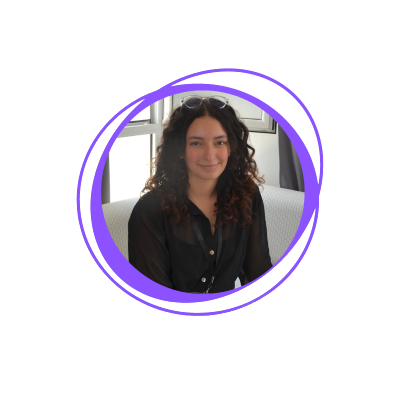
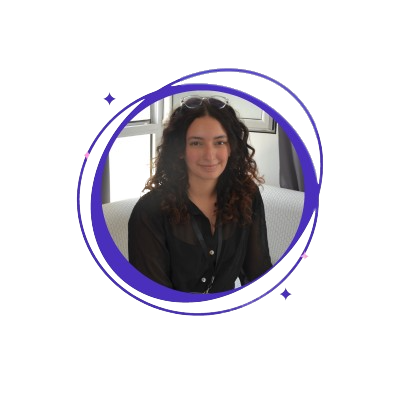
hero section

diff --git a/src/components/Hero.jsx b/src/components/Hero.jsx
@@ -12,7 +12,7 @@ const Hero = () => {
   const [text, setText] = useState('');
   const [index, setIndex] = useState(1);
   const [delta, setDelta] = useState(300 - Math.random()*100);
-  const period = 500;
+  const period = 100;
 
   useEffect(() => {
     let ticker = setInterval(() => {
@@ -52,17 +52,25 @@ const Hero = () => {
     <section className='banner' id='home'>
       <Container>
         <Row className='align-items-center'>
-          <Col xs={12} md={6} xl={7}>
+          <Col  md={6} className='text'>
           <TrackVisibility>
               {({ isVisible }) =>
               <div className={isVisible ? "animate__animated animate__fadeIn" : ""}>
                 <span className='tagline'>Welcome to my Portfolio</span>
-                <h1>{`Hi there 👋! I'm Aya HAMZA`} <span className="txt-rotate" dataPeriod="1000" data-rotate='[ "Web Developer", "Web Designer", "UI/UX Designer" ]'><span className="wrap">{text}</span></span></h1>
-                  <p>Lorem Ipsum is simply dummy text of the printing and typesetting industry. Lorem Ipsum has been the industry's standard dummy text ever since the 1500s, when an unknown printer took a galley of type and scrambled it to make a type specimen book.</p>
-                  <button onClick={() => console.log('connect')}>Let’s Connect <ArrowRightCircle size={25} /></button>
+                <h1>Hi there 👋! I'm Aya HAMZA <br /><span className="txt-rotate" dataPeriod="1000" data-rotate='[ "Web Developer", "Web Designer", "UI/UX Designer" ]'><span className="wrap">{text}</span></span></h1>
+                  <p>I'm a dynamic software engineer and a creative UI/UX designer. My passion is in bringing together form and function to create exceptional digital experiences. Welcome to my portfolio, where technology meets artistry.</p>
+                  <button>
+                    <a href="src/assets/Aya HAMZA's Resume.pdf" target="_blank" rel="noopener noreferrer">
+                      <span>View my CV</span>
+                      <span><ArrowRightCircle size={25} /></span>
+                    </a>
+                  </button>
+
+
               </div>}
-            </TrackVisibility>          </Col>
-          <Col xs={12} md={6} xl={7}>
+            </TrackVisibility>          
+          </Col>
+          <Col md={6}>
           <TrackVisibility>
               {({ isVisible }) =>
                 <div className={isVisible ? "animate__animated animate__zoomIn" : ""}>

diff --git a/src/index.css b/src/index.css
@@ -202,113 +202,6 @@
       -2.6em 0em 0 0em rgba(255, 255, 255, 0.7), -1.8em -1.8em 0 0em #ffffff;
   }
 }
-/* 
-.background {
-    
-  position: relative;
-  width: 100%;
-  height: 100vh; 
-  display: flex;
-  justify-content: center;
-  align-items: center;
-  background-repeat: no-repeat; 
-  background-size: cover;
-} */
 
 
-.shadow__btn {
-  margin-top: 30px;
-  margin-left: 70px;
-  padding: 10px 20px;
-  border: none;
-  font-size: 17px;
-  color: #fff;
-  border-radius: 7px;
-  letter-spacing: 3px;
-  font-weight: 700;
-  transition: 0.5s;
-  transition-property: box-shadow;
-}
 
-.shadow__btn {
-  background: #4361ee;
-  box-shadow: 0 0 25px #4361ee;
-}
-
-.shadow__btn:hover {
-  box-shadow: 0 0 5px #4361ee,
-              0 0 25px #4361ee,
-              0 0 50px #4361ee,
-              0 0 100px #4361ee;
-}
-
-/* ---------------------------------- */
-
-.banner {
-margin-top: 0;
-padding: 260px 0 100px 0;
-background-image: url('./assets/img/banner-bg.png');
-background-position: top center;
-background-size: cover;
-background-repeat: no-repeat;
-}
-.banner .tagline {
-font-weight: 700;
-letter-spacing: 0.8px;
-padding: 8px 10px;
-background: linear-gradient(90.21deg, rgba(170, 54, 124, 0.5) -5.91%, rgba(74, 47, 189, 0.5) 111.58%);
-border: 1px solid rgba(255, 255, 255, 0.5);
-font-size: 20px;
-margin-bottom: 16px;
-display: inline-block;
-}
-.banner h1 {
-font-size: 65px;
-font-weight: 700;
-letter-spacing: 0.8px;
-line-height: 1;
-margin-bottom: 20px;
-display: block;
-}
-.banner p {
-color: #B8B8B8;
-font-size: 18px;
-letter-spacing: 0.8px;
-line-height: 1.5em;
-width: 96%;
-}
-.banner button {
-color: #fff;
-font-weight: 700;
-font-size: 20px;
-margin-top: 60px;
-letter-spacing: 0.8px;
-display: flex;
-align-items: center;
-}
-.banner button svg {
-font-size: 25px;
-margin-left: 10px;
-transition: 0.3s ease-in-out;
-line-height: 1;
-}
-.banner button:hover svg {
-margin-left: 25px;
-}
-.banner img {
-animation: updown 3s linear infinite;
-}
-@keyframes updown {
-  0% {
-      transform: translateY(-20px);
-  }
-  50% {
-      transform: translateY(20px);
-  }
-  100% {
-      transform: translateY(-20px);
-  }
-}
-.txt-rotate > .wrap {
-border-right: 0.08em solid #666;
-}

diff --git a/src/components/style/Hero.css b/src/components/style/Hero.css
@@ -41,11 +41,10 @@
 
 .banner {
 margin-top: 0;
-padding: 260px 0 100px 0;
-background-image: url('./assets/img/banner-bg.png');
-background-position: top center;
-background-size: cover;
-background-repeat: no-repeat;
+padding-top: 260px;
+padding-left: 60px;
+width: 100%;
+  height: 100vh;
 }
 .banner .tagline {
 font-weight: 700;
@@ -61,7 +60,7 @@ display: inline-block;
 font-size: 65px;
 font-weight: 700;
 letter-spacing: 0.8px;
-line-height: 1;
+line-height: 1.6;
 margin-bottom: 20px;
 display: block;
 }
@@ -72,9 +71,10 @@ letter-spacing: 0.8px;
 line-height: 1.5em;
 width: 96%;
 }
-.banner button {
+.banner a {
 color: #fff;
 font-weight: 700;
+width: 100%;
 font-size: 20px;
 margin-top: 60px;
 letter-spacing: 0.8px;
@@ -91,7 +91,14 @@ line-height: 1;
 margin-left: 25px;
 }
 .banner img {
+  width: 600px;
 animation: updown 3s linear infinite;
+padding-left: 0px;
+}
+.banner .text{
+  padding-left: 80px;
+  float: left;
+  width: 60%;
 }
 @keyframes updown {
   0% {

diff --git a/src/App.jsx b/src/App.jsx
@@ -6,8 +6,9 @@ const App = () => {
   return (
     <BrowserRouter>
       <div className='relative z-0 bg-primary'>
-        <div>
-          <Navbar/>
+        <Navbar/>
+        <div className='relative z-0'>
+         <StarsCanvas />
           <Hero />
         </div>
         <About />
